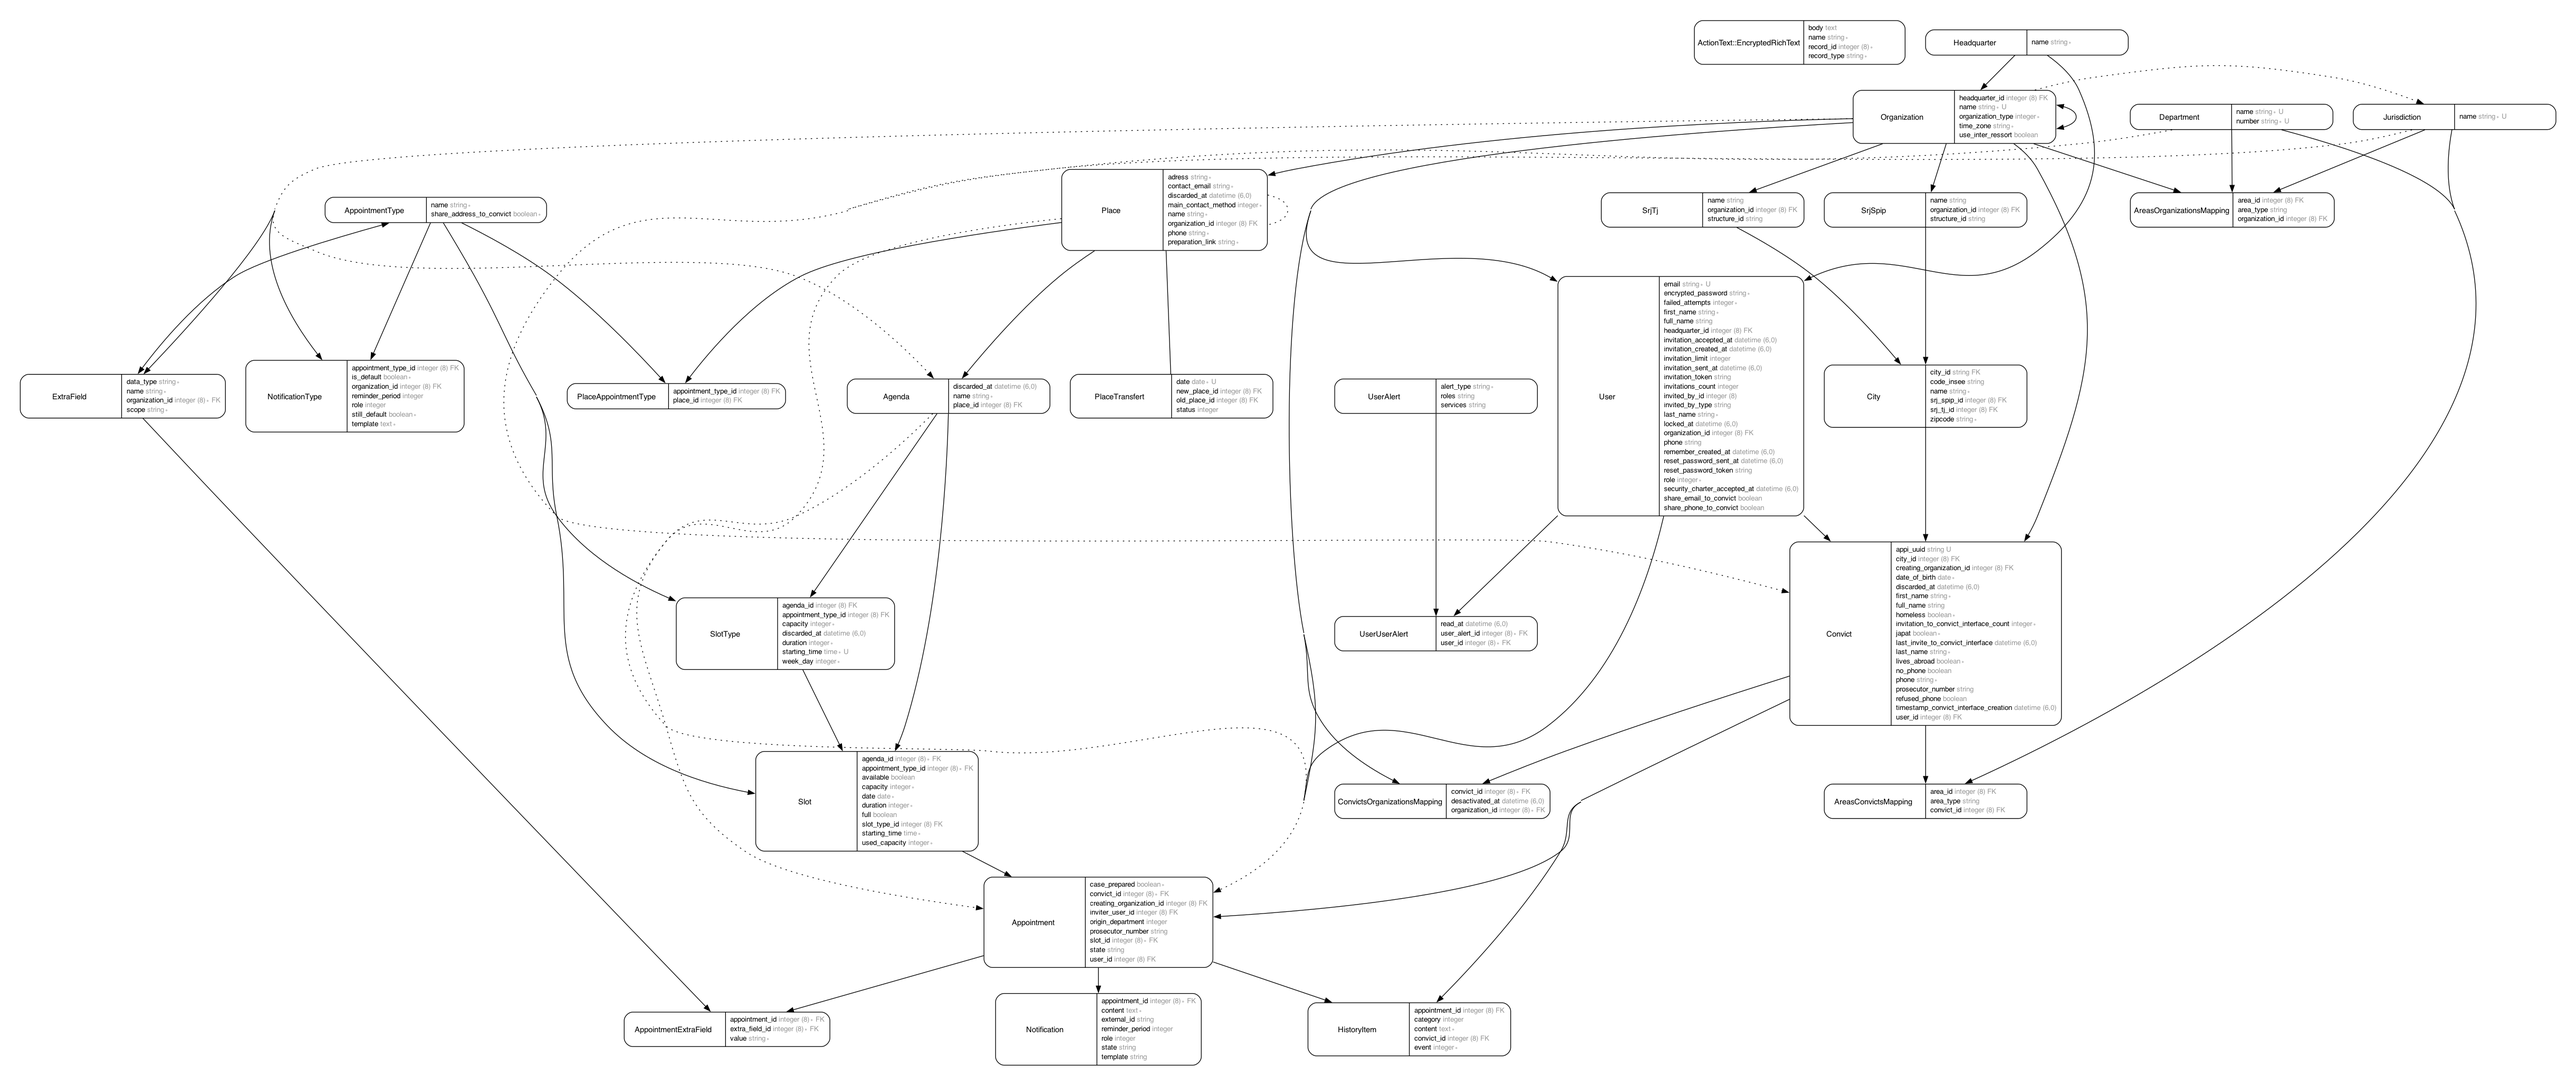
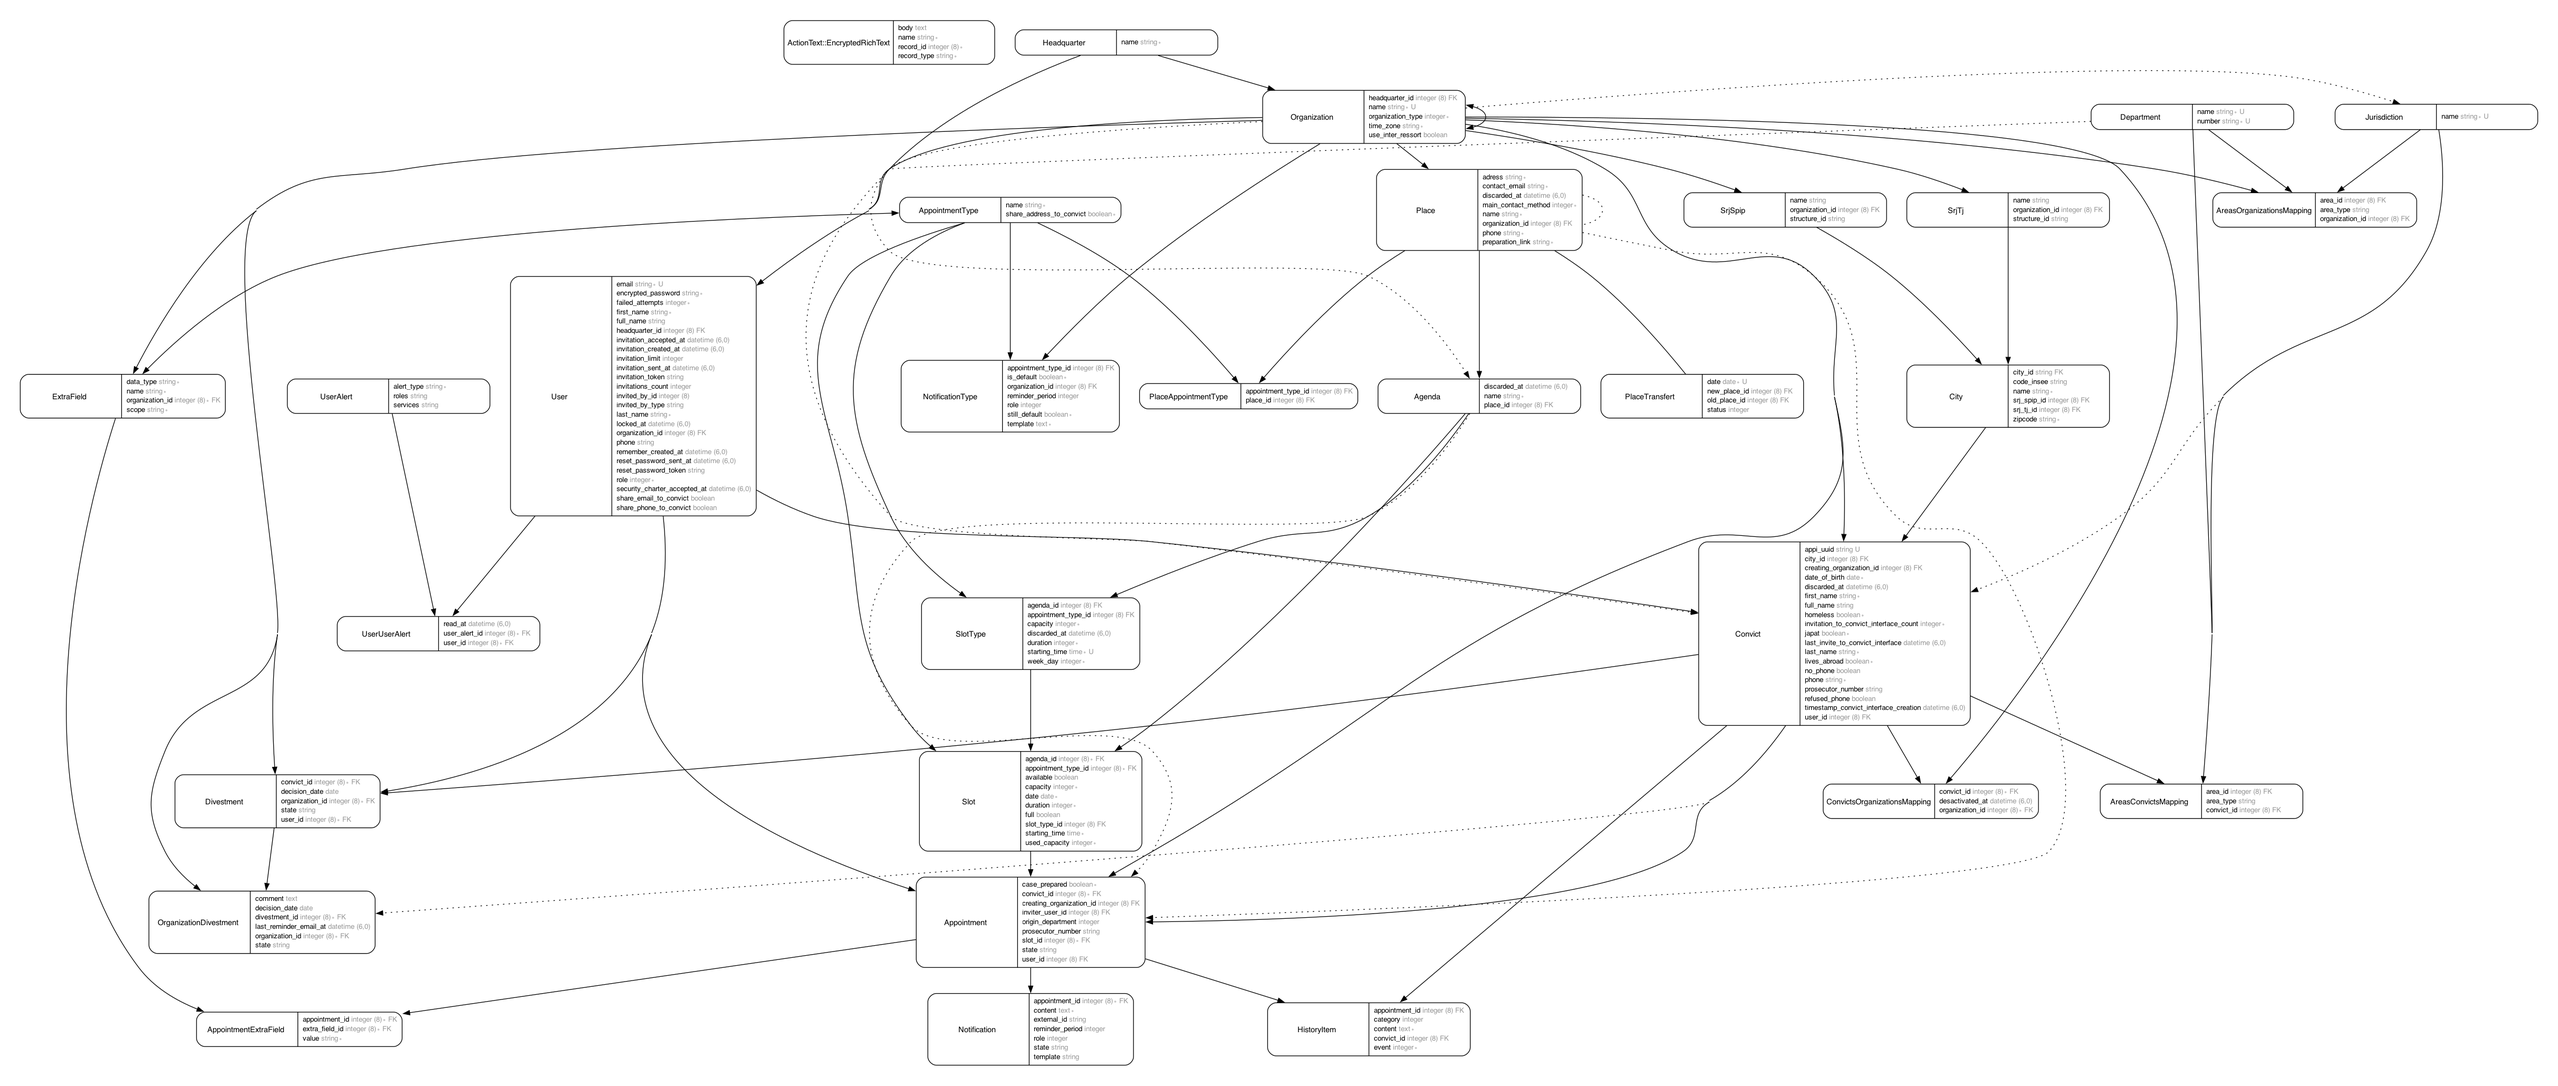
mail admin on create and stalled

diff --git a/db/schema.rb b/db/schema.rb
@@ -10,7 +10,7 @@
 #
 # It's strongly recommended that you check this file into your version control system.
 
-ActiveRecord::Schema[7.1].define(version: 2024_03_14_164801) do
+ActiveRecord::Schema[7.1].define(version: 2024_04_17_141947) do
   # These are extensions that must be enabled in order to support this database
   enable_extension "plpgsql"
   enable_extension "unaccent"
@@ -340,6 +340,7 @@ ActiveRecord::Schema[7.1].define(version: 2024_03_14_164801) do
     t.text "comment"
     t.datetime "created_at", null: false
     t.datetime "updated_at", null: false
+    t.datetime "last_reminder_email_at"
     t.index ["divestment_id"], name: "index_organization_divestments_on_divestment_id"
     t.index ["organization_id"], name: "index_organization_divestments_on_organization_id"
   end

diff --git a/app/mailers/user_mailer.rb b/app/mailers/user_mailer.rb
@@ -15,6 +15,16 @@ class UserMailer < ApplicationMailer
     mail(to: @admins.map(&:email), subject: "L'agent #{@user.name} a été muté dans Mon Suivi Justice")
   end
 
+  def notify_local_admins_of_divestment(organization_divestment)
+    organization = organization_divestment.organization
+    @admins = organization.local_admins
+    return if @admins.blank?
+
+    mail(to: @admins.map(&:email), subject: 'Vous avez des demandes de dessaisissement en attente')
+    # je sais pas si c'est une bonne idee de faire ca la
+    organization_divestment.update!(last_reminder_email_at: Time.zone.now)
+  end
+
   def divestment_accepted
     divestment = params[:divestment]
     user = divestment.user

diff --git a/app/models/organization.rb b/app/models/organization.rb
@@ -44,6 +44,14 @@ class Organization < ApplicationRecord
 
   has_rich_text :jap_modal_content
 
+  # Scope to find all organizations with at least one due divestment
+  scope :with_due_divestments, lambda {
+    joins(:organization_divestments, :users)
+      .where(users: { role: 'local_admin' })
+      .merge(OrganizationDivestment.reminders_due)
+      .distinct
+  }
+
   def ten_next_days_with_slots(appointment_type)
     Slot.future
         .in_organization(self)

diff --git a/app/models/organization_divestment.rb b/app/models/organization_divestment.rb
@@ -12,6 +12,11 @@ class OrganizationDivestment < ApplicationRecord
       .where(organization_divestments: { state: 'pending' }, divestments: { state: 'pending' })
   }
 
+  scope :reminders_due, lambda {
+    where(state: 'pending')
+      .where('last_reminder_email_at IS NULL OR last_reminder_email_at <= ?', 5.days.ago)
+  }
+
   state_machine initial: :pending do
     event :accept do
       transition pending: :accepted

diff --git a/app/services/divestment_state_service.rb b/app/services/divestment_state_service.rb
@@ -34,7 +34,7 @@ class DivestmentStateService
 
       if @user
         UserMailer.with(divestment: @divestment, organization_divestment: @organization_divestment,
-                         current_user: @user).divestment_refused.deliver_later
+                        current_user: @user).divestment_refused.deliver_later
       end
 
       true

diff --git a/app/services/divestment_stalled_service.rb b/app/services/divestment_stalled_service.rb
@@ -11,6 +11,12 @@ class DivestmentStalledService
 
       service.ignore
     end
+
+    reminders_due = OrganizationDivestment.reminders_due
+
+    reminders_due.each do |organization_divestment|
+      UserMailer.notify_local_admins_of_divestment(organization_divestment).deliver_later
+    end
   end
 
   private

diff --git a/db/migrate/20240417141947_add_last_reminder_email_at_to_organization_divestments.rb b/db/migrate/20240417141947_add_last_reminder_email_at_to_organization_divestments.rb
@@ -1,0 +1,5 @@
+class AddLastReminderEmailAtToOrganizationDivestments < ActiveRecord::Migration[7.1]
+  def change
+    add_column :organization_divestments, :last_reminder_email_at, :datetime
+  end
+end
